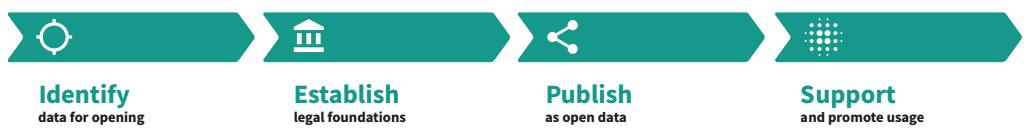
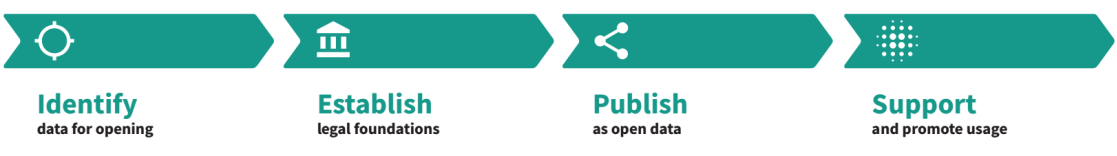
Theme updates, improved frontpage graphic, fixed m5-abgrenzung-leistungen translation, fixed permissions issue in Makefile

diff --git a/content/library/m5-abgrenzung-leistungen.de.md b/content/library/m5-abgrenzung-leistungen.de.md
@@ -9,18 +9,55 @@ Summary: Lieberobjekt L 5.2 des Projekts OGD Schweiz - Verfasst im Auftrag des I
 Lang: de
 
 
-> ### 3.3. Entscheidungsbaum
-Anfang des Jahres entwickelte die Verfasserin einen Entscheidungsbaum, um verschiedene staatliche Leistungen bezüglich ihrer Gebührenrelevanz ökonomisch einzuordnen. Dieser Entscheidungsbaum ist in Anhang A beigefügt1. Er setzt die Erkenntnisse von Abschnitt 3.2 um und dient dazu, OGD von anderen Tätigkeiten und deren zugehörigen Informationen zu unterscheiden.
-In der Ausgangslage stellt sich die Frage, ob Behördeninformationen entstanden sind im Umfeld einer staatlichen Leistung, die aus ökonomischer Sicht eindeutig eine Staatsaufgabe darstellt. In Abschnitt 3.2.1 wurden die ökonomischen Eigenschaften öffentlicher Güter präsentiert. Anhand dieser Kriterien können somit diejenigen staatlichen Leistungen ausgeschieden werden, die keine eigentlichen Staatsaufgaben darstellen.
-In der Schweiz gilt ordnungspolitisch der allgemeine Grundsatz, dass der Staat in einer Marktwirtschaft keine Aufgaben übernimmt, die die Privatwirtschaft übernehmen kann. Dazu werden häufig die Artikel 27 und 94 der Bundesverfassung zitiert2. Wenn immer möglich, sollte der Wettbewerb zwischen privaten Anbietern spielen. Der Staat hingegen sollte nicht als Konkurrent zur Privatwirtschaft auftreten und dadurch Wettbewerbsverzerrungen verursachen. Dies entspricht dem 4. Fall im Entscheidungsbaum in Anhang A.
-Allerdings kann der Staat in Ausnahmefällen eventuell „Nicht-Staatsaufgaben“ übernehmen. Denn es gibt z.B. Fälle, in denen sich kein privater Anbieter findet, aber die Erfüllung der Aufgabe im öffentlichen Interesse liegt3. Diese Situation entspricht dem 3. Fall im Entscheidungsbaum in Anhang A. Solchen kommerziellen oder gewerblichen Tätigkeiten der Bundesverwaltung sind enge Grenzen gesetzt. So dürfen Verwaltungseinheiten nach Art. 41 FHG gewerbliche Leistungen für Dritte nur erbringen, wenn ein Gesetz sie hierzu ermächtigt. Dies kann entweder Art. 41a des FHG sein oder ein Spezialgesetz.
-Wenn Behördeninformationen im Umfeld einer aus ökonomischer Sicht eindeutigen Staatsaufgabe entstanden sind, ist zu klären, ob sie zur „Selbstbedienung“ bzw. Selbstabholung bereitgestellt werden oder ob sie aufgrund kundenspezifischer, individueller Nachfrage bzw. „Bestellung“ gleichsam als Spezialanfertigung geliefert werden. Es fragt sich also, ob eine Verwaltungsstelle „auf Bestellung“ eine zusätzliche kundenspezifische Leistung erbringt oder nicht. Wenn diese Frage verneint werden kann, handelt es sich um OGD im Sinne der in Abschnitt 3.1 zu Grunde gelegten Definition. In diesem, im Entscheidungsbaum in Anhang A als 1. Fall bezeichneten Fall, sollten die Daten bzw. Informationen gebührenfrei zur Verfügung gestellt werden. Denn die Grenzkosten für die Bereitstellung eines zusätzlichen „Stückes“ sind praktisch Null. Nur dieser 1. Fall erfüllt die in Abschnitt 3.2.1 aufgeführten Kriterien eines digitalen öffentlichen Gutes.
-Wenn jedoch kundenspezifische Leistungen für einen individuellen Nachfrager erbracht werden, sollte dieser Zusatzaufwand verursachergerecht durch Gebühren abgegolten werden. Dies entspricht dem 2. Fall des Entscheidungsbaums in Anhang A. Die Erhebung der Gebühren wird spezialgesetzlich oder gemäss Art. 46a des RVOG geregelt. Eine ausführliche Besprechung dieses Gesetzesartikels findet sich bei Braunschweig4.
-Der 2. Fall unterscheidet sich von den gewerblichen Leistungen im 3. Fall dadurch, dass im 2. Fall eine eindeutige Staatsaufgabe vorliegt.
-Auf die vier verschiedenen „Gebührenfälle“ wird insbesondere in den Kapiteln 4 und 5 Bezug genommen. Dabei liegt der Fokus auf der Unterscheidung zwischen den in Anhang A bezeichneten Fällen 1 und 2. Die nachfolgende Abbildung zeigt diesen Fokus.
+Dieser Bericht definiert im Detail das Konzept der OGD, erklärt die wirtschaftlichen Fundamentaldaten der Erzeugung und Nutzung von offenen Daten in der Regierung, und stellt einen Entscheidungsbaum für die Verwendung bei der Beurteilung Veröffentlichung Kriterien. Er legt die allgemeinen Abgrenzungskriterien, so dass einzelne Verwaltungen können Daten "ihre" Autorität im Rahmen der spezifischen Rechtsgrundlage als OGD zu identifizieren, oder auf andere Weise zu klassifizieren.
 
-![Entscheidungsbaum](/images/m5-abgrenzung-leistungen-2.jpg)
+**Staatliche Leistung (Lieferung von Behörden-informationen)**
 
-*Entscheidungsbaum, A. Bürgi-Schmelz*
+<section id="wizard"><div class="tab-content">
+<div class="tab-pane active" id="tab1">
+<p>Handelt es sich eindeutig um eine Staatsaufgabe?</p>
+<a href="#tab2" data-toggle="tab" class="btn btn-sm btn-default">Ja</a>
+<a href="#tab3" data-toggle="tab" class="btn btn-sm btn-default">Nein</a>
+</div>
+<div class="tab-pane" id="tab2">
+<p>Wird eine kundenspezifische Leistung erbracht?<br>
+(Sonderwunsch für die Bereitstellung, Spezialabfrage etc.)</p>
+<a href="#tabA2" data-toggle="tab" class="btn btn-sm btn-default">Ja</a>
+<a href="#tabA1" data-toggle="tab" class="btn btn-sm btn-default">Nein</a>
+</div><div class="tab-pane" id="tab3">
+<p>Wird die Tätigkeit im öffentlichen Interesse ausgeführt?</p>
+<a href="#tabA3" data-toggle="tab" class="btn btn-sm btn-default">Ja</a>
+<a href="#tabA4" data-toggle="tab" class="btn btn-sm btn-default">Nein</a>
+</div><div class="tab-pane" id="tabA1">
+<p>&rarr; OGD (Gratisabgabe)</p>
+<a href="#tab1" data-toggle="tab" class="btn btn-sm btn-default">&lt; Wiederholen</a>
+</div><div class="tab-pane" id="tabA2">
+<p>&rarr; Gebührenerhebung für den Zusatsaufwand zu Grenzkosten</p>
+<a href="#tab1" data-toggle="tab" class="btn btn-sm btn-default">&lt; Wiederholen</a>
+</div><div class="tab-pane" id="tabA3">
+<p>&rarr; Vertragliche Vereinbarung</p>
+<a href="#tab1" data-toggle="tab" class="btn btn-sm btn-default">&lt; Wiederholen</a>
+</div><div class="tab-pane" id="tabA4">
+<p>&rarr; Privatwirtschaft (evtl. Vertrag)</p>
+<a href="#tab1" data-toggle="tab" class="btn btn-sm btn-default">&lt; Wiederholen</a>
+</div>
+</div></section>
+
+
+![Entscheidungsbaum](/images/chart-abgrenzung-leistungen.png)
+
+Bezogen auf *Entscheidungsbaum, A. Bürgi-Schmelz*
+
+> In der Schweiz gilt ordnungspolitisch der allgemeine Grundsatz, dass der Staat in einer Marktwirtschaft keine Aufgaben übernimmt, die die Privatwirtschaft übernehmen kann. Dazu werden häufig die Artikel 27 und 94 der Bundesverfassung zitiert2. Wenn immer möglich, sollte der Wettbewerb zwischen privaten Anbietern spielen. Der Staat hingegen sollte nicht als Konkurrent zur Privatwirtschaft auftreten und dadurch Wettbewerbsverzerrungen verursachen. Dies entspricht dem 4. Fall im Entscheidungsbaum in Anhang A.
+
+> Allerdings kann der Staat in Ausnahmefällen eventuell „Nicht-Staatsaufgaben“ übernehmen. Denn es gibt z.B. Fälle, in denen sich kein privater Anbieter findet, aber die Erfüllung der Aufgabe im öffentlichen Interesse liegt3. Diese Situation entspricht dem 3. Fall im Entscheidungsbaum in Anhang A. Solchen kommerziellen oder gewerblichen Tätigkeiten der Bundesverwaltung sind enge Grenzen gesetzt. So dürfen Verwaltungseinheiten nach Art. 41 FHG gewerbliche Leistungen für Dritte nur erbringen, wenn ein Gesetz sie hierzu ermächtigt. Dies kann entweder Art. 41a des FHG sein oder ein Spezialgesetz.
+
+> Wenn Behördeninformationen im Umfeld einer aus ökonomischer Sicht eindeutigen Staatsaufgabe entstanden sind, ist zu klären, ob sie zur „Selbstbedienung“ bzw. Selbstabholung bereitgestellt werden oder ob sie aufgrund kundenspezifischer, individueller Nachfrage bzw. „Bestellung“ gleichsam als Spezialanfertigung geliefert werden. Es fragt sich also, ob eine Verwaltungsstelle „auf Bestellung“ eine zusätzliche kundenspezifische Leistung erbringt oder nicht. Wenn diese Frage verneint werden kann, handelt es sich um OGD im Sinne der in Abschnitt 3.1 zu Grunde gelegten Definition. In diesem, im Entscheidungsbaum in Anhang A als 1. Fall bezeichneten Fall, sollten die Daten bzw. Informationen gebührenfrei zur Verfügung gestellt werden. Denn die Grenzkosten für die Bereitstellung eines zusätzlichen „Stückes“ sind praktisch Null. Nur dieser 1. Fall erfüllt die in Abschnitt 3.2.1 aufgeführten Kriterien eines digitalen öffentlichen Gutes.
+
+> Wenn jedoch kundenspezifische Leistungen für einen individuellen Nachfrager erbracht werden, sollte dieser Zusatzaufwand verursachergerecht durch Gebühren abgegolten werden. Dies entspricht dem 2. Fall des Entscheidungsbaums in Anhang A. Die Erhebung der Gebühren wird spezialgesetzlich oder gemäss Art. 46a des RVOG geregelt. Eine ausführliche Besprechung dieses Gesetzesartikels findet sich bei Braunschweig.
+
+> Der 2. Fall unterscheidet sich von den gewerblichen Leistungen im 3. Fall dadurch, dass im 2. Fall eine eindeutige Staatsaufgabe vorliegt.
+
+> Auf die vier verschiedenen „Gebührenfälle“ wird insbesondere in den Kapiteln 4 und 5 Bezug genommen. Dabei liegt der Fokus auf der Unterscheidung zwischen den in Anhang A bezeichneten Fällen 1 und 2. Die nachfolgende Abbildung zeigt diesen Fokus.
 
 Weiter lesen: [Download PDF](http://www.egovernment.ch/umsetzung/00881/00883/01112/index.html?lang=de&download=NHzLpZeg7t,lnp6I0NTU042l2Z6ln1acy4Zn4Z2qZpnO2Yuq2Z6gpJCDdnt3gmym162epYbg2c_JjKbNoKSn6A--) (egovernment.ch)
